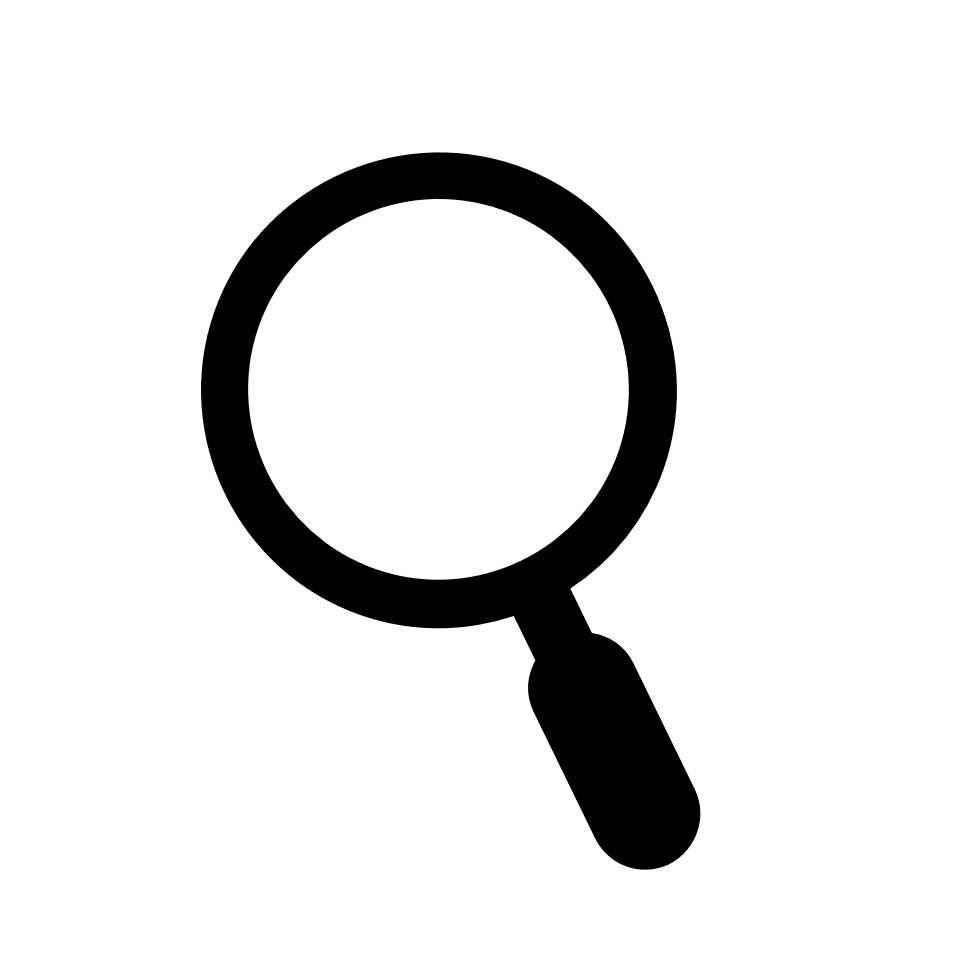
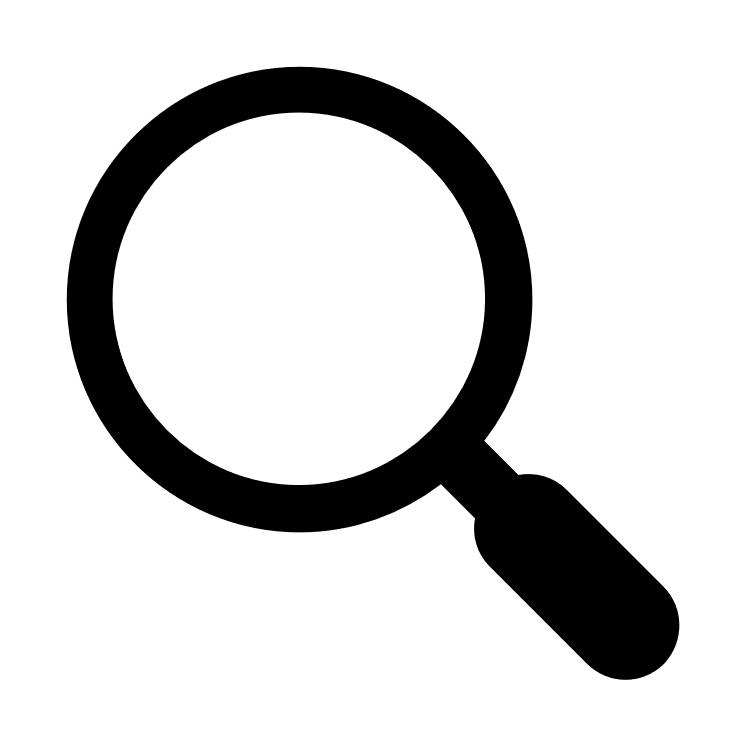
Finalisation de la mise en page et du contenu de info3.html

Changed region(s): [[0.0926, 0.0926, 0.9262, 0.9262]]

diff --git a/info3.html b/info3.html
@@ -44,30 +44,30 @@
         <div class="main-container info">  
             <section class="container">
                 <div class="section-titre">
-                    <img src="img/info1-icone3.png" alt="Icône référence">
+                    <img src="img/info3-icone1.png" alt="Icône référence">
                     <h2>Identifier les compétences des utilisateurs</h2>
                 </div>
 
                 <p>
-                    La plateforme pourrait intégrer un système de reconnaissance des diplômes, des publications et des domaines de spécialisation. Cela permettrait de situer les utilisateurs selon leur champ d’expertise et d’évaluer plus facilement la pertinence de leurs interventions.
+                  La plateforme pourrait s’appuyer sur des partenariats avec les universités afin de reconnaître officiellement la diplomation des utilisateurs. Cette vérification permettrait d’associer un utilisateur à un niveau de formation et à un champ disciplinaire précis, sans devoir se limiter à une simple déclaration personnelle.  
                 </p>
                 <p>
-                    Cette reconnaissance serait particulièrement utile pour éviter que toutes les contributions apparaissent comme équivalentes, indépendamment de leur qualité ou de leur fondement scientifique.
+                    Cette reconnaissance pourrait être complétée par l’analyse des publications scientifiques déjà produites par l’utilisateur. Les diplômes indiqueraient la formation reconnue, tandis que les publications permettraient d’évaluer plus concrètement l’activité scientifique et l’influence réelle de l’utilisateur dans son domaine.
                 </p>
 
                 <div class="sub-container">
                     <article>
-                        <h3>Diplômes</h3>
+                        <h3>Diplômes reconnus</h3>
                             <hr>
                             <p>
-                                Les diplômes pourraient servir à identifier les domaines de formation des utilisateurs et à reconnaître certaines compétences spécialisées.               
+                                Des ententes avec les universités pourraient permettre de confirmer les diplômes obtenus par les utilisateurs et de les relier à des disciplines précises.    
                             </p>
                     </article>
                     <article>
-                        <h3>Publications</h3>
+                        <h3>Publications et indice h</h3>
                             <hr>
                             <p>
-                                Les articles publiés par un utilisateur pourraient aussi contribuer à établir son autorité dans un champ de recherche particulier.                       
+                                Les articles publiés par un utilisateur, ainsi que des indicateurs comme l’indice h, pourraient contribuer à mesurer son influence scientifique dans un champ donné.
                             </p>
                     </article>           
                 </div>               
@@ -75,7 +75,7 @@
 
             <section class="container">
                 <div class="section-titre">
-                    <img src="img/info1-icone3.png" alt="Icône référence">
+                    <img src="img/info3-icone2.png" alt="Icône référence">
                     <h2>Valoriser les contributions pertinentes</h2>
                 </div>
 
@@ -114,80 +114,65 @@
             </section> 
 
             <section class="container type2">
+                <div class="section-img">
+                    <img src="img/info-icone-ampoule.png" alt="Icône ampoule">
+                </div>
+
                 <div class="section-txt">
                 <h2>Éviter l’égalité artificielle des contributions</h2>
-                    <p>
-                        Dans un espace ouvert, toutes les interventions peuvent apparaître au même niveau. 
-                        Cela peut créer une confusion entre une critique rigoureuse, une opinion personnelle et une modification réellement utile au savoir scientifique.               
-                    </p>
                     <p>
                         Le système de reconnaissance permettrait donc d’organiser les contributions sans fermer la plateforme.
                         Les utilisateurs pourraient participer, mais leurs interventions seraient accompagnées d’indicateurs permettant d’en évaluer la crédibilité.
                     </p>     
+
+                    <p>Une distinction nette serait également conservée entre les utilisateurs qui proposent des correctifs aux articles et les utilisateurs qui en sont les auteurs : ces derniers seulement étant dotés de la capacité de mettre à jour leur publication suite aux rétroactions reçues.</p>
                 </div>              
             </section> 
         
             <section class="container">
                 <div class="section-titre">
-                    <img src="img/info1-icone3.png" alt="Icône référence">
-                    <h2>Articuler ouverture et autorité scientifique</h2>
+                    <img src="img/info3-icone3.png" alt="Icône référence">
+                    <h2>Rémunérer les contributions scientifiques</h2>
                 </div>
-                    <p>
-                        Le défi principal consiste à maintenir une plateforme ouverte tout en reconnaissant l’existence d’expertises réelles. 
-                        Une plateforme scientifique ne peut pas fonctionner seulement comme un espace d’opinion : elle doit aussi pouvoir hiérarchiser les contributions selon leur rigueur, leur pertinence et leur ancrage dans un champ de connaissance.           
-                    </p>
-                    <p>
-                        Cette hiérarchisation ne devrait toutefois pas reproduire mécaniquement les institutions existantes.  
-                        Elle devrait plutôt combiner la reconnaissance académique classique avec l’évaluation des contributions produites directement sur la plateforme.
-                    </p>
-                <div class="sub-container">
+                <p>Une telle plateforme pourrait, à terme, ouvrir la voie à un système de rémunération visant à encourager les contributions les plus pertinentes. Il ne s’agirait pas de rémunérer l’ensemble des interventions, mais de reconnaître celles qui contribuent de manière significative à l’amélioration des articles et à la qualité du savoir produit.</p>
+                <p>Cette reconnaissance pourrait s’appuyer sur l’importance des apports réalisés. Par exemple, un correctif rigoureux apporté à un article central du réseau, puis intégré dans une mise à jour officielle par son auteur, pourrait être considéré comme ayant une valeur particulière. La mise en place d’un tel système impliquerait toutefois de définir des critères d’évaluation capables de distinguer les contributions réellement structurantes des interventions plus mineures.</p>
+                 <div class="sub-container">
                     <article>
-                        <h3>Ouverture</h3>
+                        <h3>Fonds dédié</h3>
                             <hr>
                             <p>
-                                La plateforme resterait accessible à plusieurs types d’utilisateurs, afin de favoriser la discussion et la critique.                
+                                Une caisse spécifique pourrait être constituée afin de soutenir financièrement les contributions reconnues comme les plus utiles à la plateforme.
                             </p>
                     </article>
-                    <article>
-                        <h3>Autorité</h3>
+                     <article>
+                        <h3>Apports structurants</h3>
                             <hr>
                             <p>
-                                Les interventions seraient contextualisées selon le niveau d’expertise reconnu de la personne qui les propose.  
+                                Les contributions ayant un impact sur des articles centraux ou sur des portions importantes du réseau pourraient être privilégiées.
                             </p>
-                    </article>           
-                    <article>
-                        <h3>Responsabilité</h3>
+                    </article>  
+                        <article>
+                        <h3>Financement collectif</h3>
                             <hr>
                             <p>
-                            Plus une contribution gagne en visibilité, plus elle devrait être justifiée, vérifiable et exposée à la critique.
+                               Ce fonds pourrait être alimenté par des dons, dans une logique d’organisme à but non lucratif soutenu par des contributeurs, des fondations ou des organisations.
                             </p>
-                    </article>     
-                </div>               
+                    </article>                          
             </section> 
 
-            <section class="container type2">
-                <div class="section-txt">
-                <h2>Rendre visibles les meilleurs contributeurs</h2>
-                    <p>
-                        La plateforme pourrait aussi reconnaître les utilisateurs dont les interventions ont une valeur particulière. 
-                        Cette reconnaissance pourrait dépendre du nombre de modifications pertinentes, de leur qualité et de l’importance des articles concernés.             
-                    </p>
-                    <p>
-                        Les meilleurs contributeurs ne seraient donc pas seulement ceux qui publient le plus, mais ceux dont les interventions améliorent réellement la fiabilité, la précision et la qualité du savoir disponible.
-                    </p>     
-                </div>              
-            </section>    
+
 
             <section class="container type2">
+                <div class="section-img">
+                    <img src="img/info-icone-utilisateurs.png" alt="Icône ampoule">
+                </div>
                 <div class="section-txt">
-                <h2>Une expertise dynamique</h2>
-                    <p>
-                        La reconnaissance de l’expertise deviendrait elle-même dynamique. 
-                        Elle ne reposerait pas uniquement sur un diplôme obtenu ou sur un statut institutionnel, mais aussi sur l’activité réelle de l’utilisateur dans le réseau scientifique de la plateforme.
-                        
-                    </p>
+                <h2>Une expertise rendue visible</h2>
                     <p>
                         Le troisième axe complète ainsi les deux premiers : après avoir rendu les articles modifiables et reliés entre eux, la plateforme devrait aussi rendre visibles les personnes capables de contribuer sérieusement à leur amélioration.
+                    </p>
+                    <p>
+                        Il ne s’agirait pas de restreindre la participation, mais de structurer les interventions en reconnaissant les apports les plus rigoureux. La plateforme pourrait ainsi articuler ouverture du savoir et reconnaissance de l’expertise, en donnant un poids différencié aux contributions selon leur qualité.
                     </p>
                 </div>              
             </section>       

diff --git a/info2.html b/info2.html
@@ -119,9 +119,6 @@
             <p>
                 Cette fonctionnalité serait particulièrement utile pour la recherche en sciences humaines, car les concepts y évoluent beaucoup et peuvent changer de signification selon les auteurs qui les mobilisent et les périodes dans lesquelles ils sont utilisés.
             </p>
-            <!-- <p>
-                Pour rendre cette fonction possible, la plateforme pourrait distinguer les mots ordinaires des concepts scientifiques. Les mots serviraient principalement à la lecture du texte, tandis que les concepts pourraient être rendus interactifs et analysés en profondeur par l'utilisateur.
-            </p> -->
 
             <div class="sub-container">
                 <article>
@@ -185,8 +182,6 @@
                         <p>
                        Le travail des utilisateurs consisterait à renforcer certaines structures, à en corriger d’autres et à redistribuer l’attention portée aux différentes parties du réseau.
                         </p>
-                        <p>Cette cartographie ne serait donc pas une simple représentation visuelle, mais un outil d’analyse permettant de distinguer les structures solides des zones plus instables du savoir, et de suivre les transformations du réseau à mesure que les articles sont critiqués, corrigés et réévalués.</p>
-                        
                 </article>                 
             </div>               
         </section> 

diff --git a/css/info.css b/css/info.css
@@ -114,9 +114,19 @@ body.info{
             }
 
             img.centrer{
-                    width: 65%;
-                    display: block;
-                    margin: 30px auto;
+                width: 60%;
+                display: block;
+                margin: 60px auto 30px auto;
+
+                @media (min-width: 1200px) {
+                    width: 50%;
+                }
+
+                @media (max-width: 767px) {
+                    width: 80%; 
+                }
+
+
             }
 
             .section-titre {
